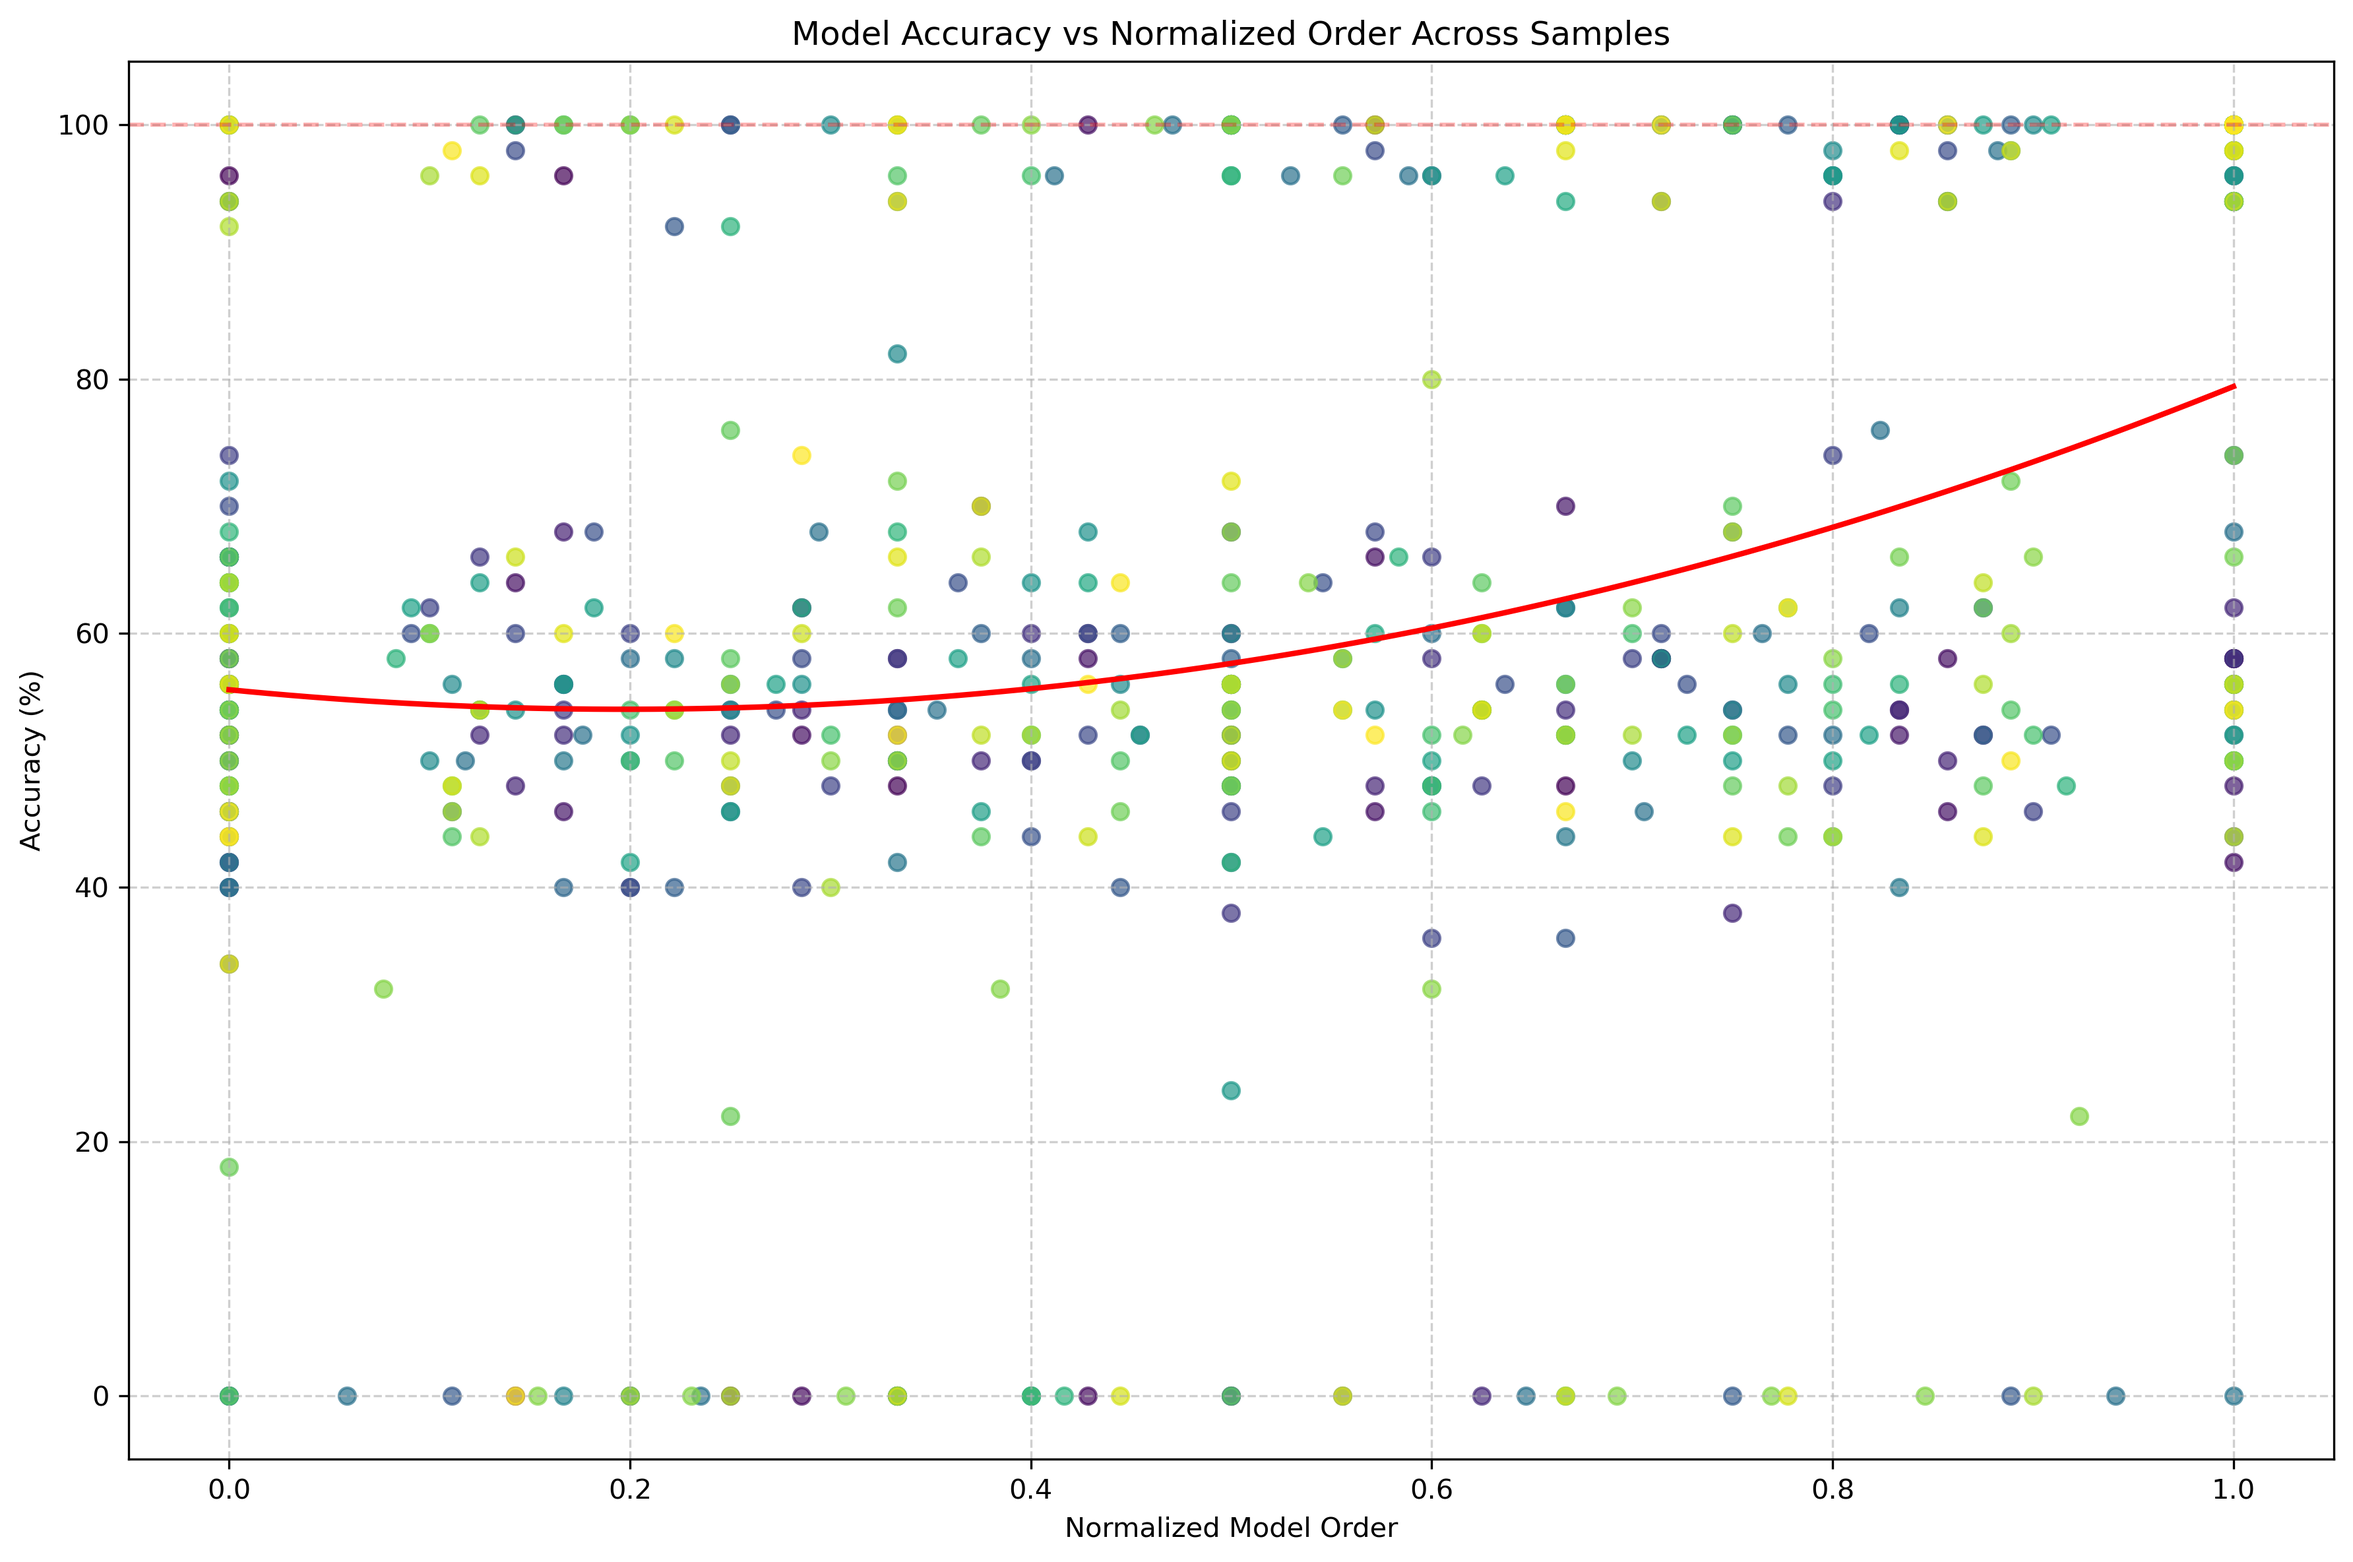
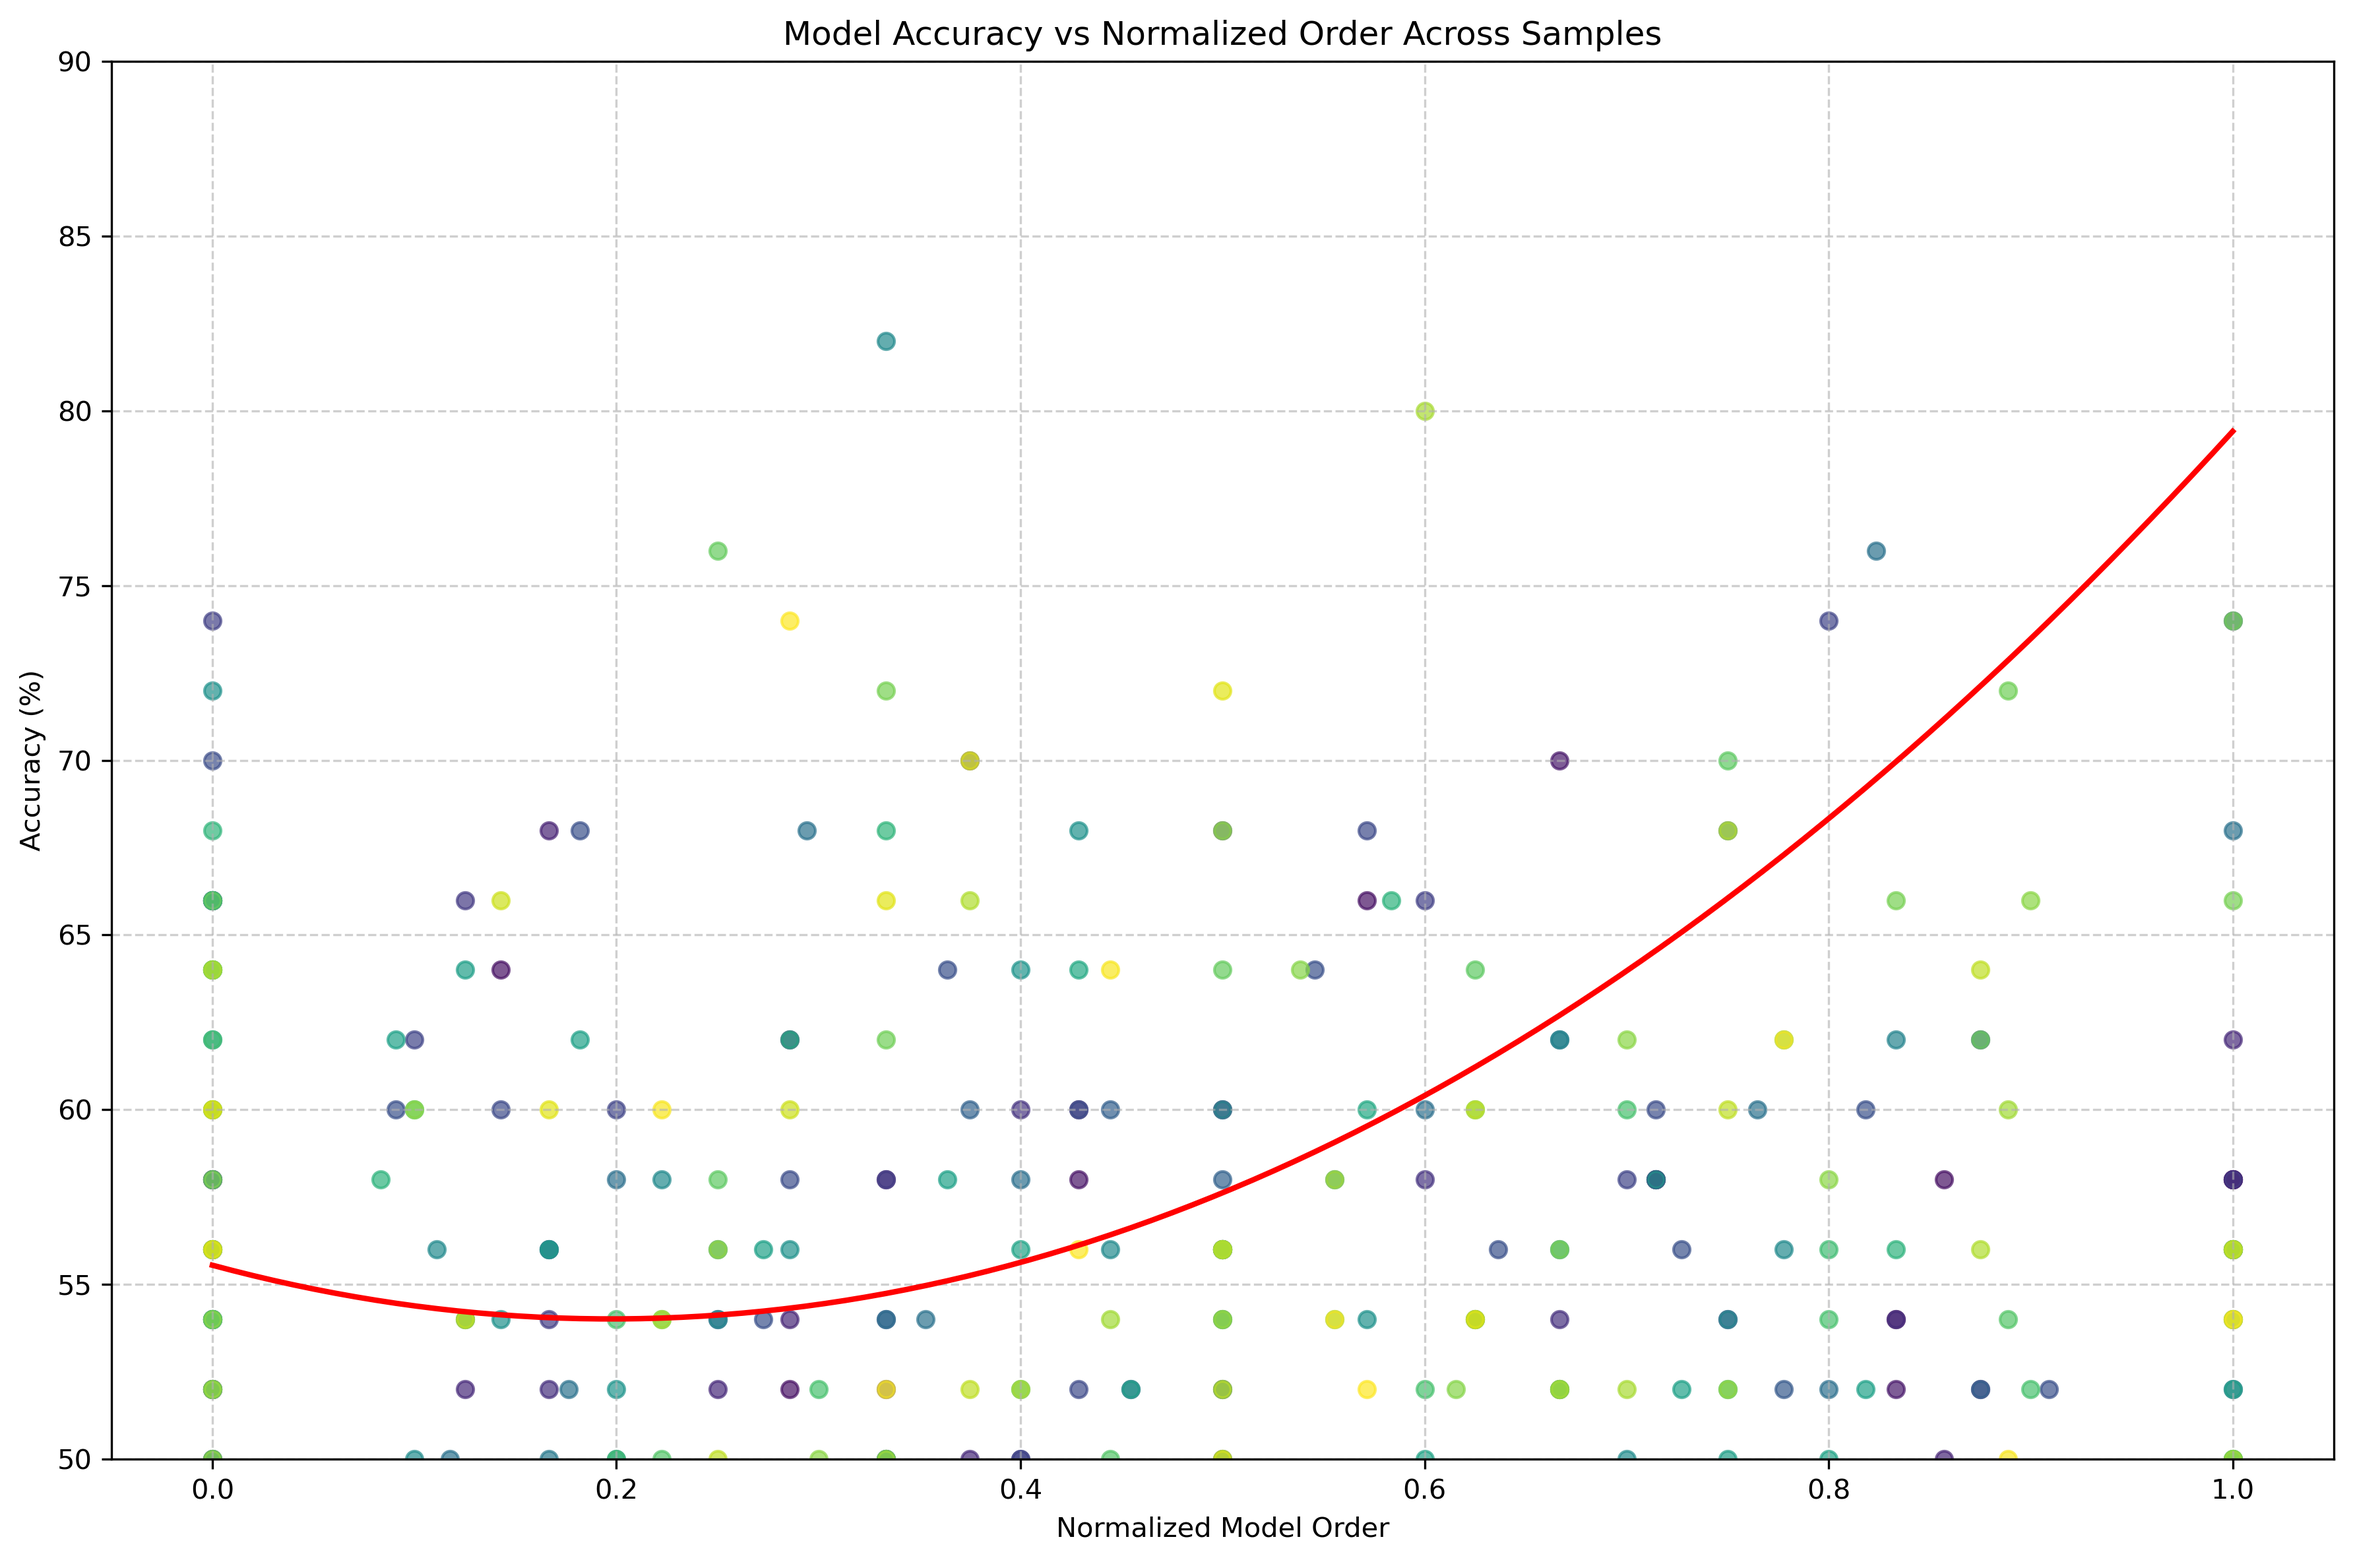
update claude vis

diff --git a/visualize/plot_model_accuracy.py b/visualize/plot_model_accuracy.py
@@ -152,7 +152,7 @@ def plot_model_accuracy(data, output_file=None, title=None):
     plt.ylabel('Accuracy (%)')
     plt.title(title or 'Model Accuracy vs Normalized Order Across Samples')
     plt.grid(True, linestyle='--', alpha=0.6)
-    plt.ylim(-5, 105)
+    plt.ylim(50, 90)
     
     # if len(unique_samples) <= 20:
     #     plt.legend(loc='lower right')
